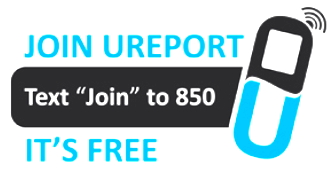
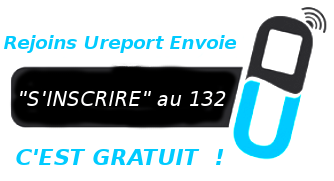
templates

diff --git a/templates/ureport/about.html b/templates/ureport/about.html
@@ -30,27 +30,79 @@
 		</p>
 		
 		<p>
-			Ureport fournit un moyen economique de rassembler et visualiser des informations sur et les opinions de la communaute en temps reel.Co-developpe avec un eventail de groupes d'utilisateurs,cet outil polyvalent contient une serie de caracteristiques et applications qui assurent la valeur pour tous les groupes d'utilisateurs.
+			<h3> Pourquoi rejoindre? Comme un Ureporter tu peux:</h3>
+			<ul>
+				<li>Collecter et partager des informations importantes à propos de ce qui se passe 
+				    dans ta communauté avec les autres à travers le pays</li>
+				<li>Proposer des solutions aux defis que tu vois et motiver nos responsables à  l'action.</li>
+				<li>Contribuer aux emissions radio et articles de journaux sur les sujets qui te tiennent à  cœur.</li>
+				<li>Participer dans les événements Ureport et rencontrer les autres communautés de volontaires 
+				    travaillant pour pour un changement positif dans leurs communautés</li>
+			</ul>
+       En collectant et en partageant l'information de ta communauté tu aides à améliorer la livraison 
+       des services et ressources sociaux à ceux qui en ont le plus besoin
 		</p>
 		<p>
-			Le second paragraphe.
 		</p>
 		
-		<img src="{{ STATIC_URL }}images/Bu.png">
+		<img src="{{ STATIC_URL }}images/Bur.png">
 
 	</div>
 	
+	<div>
 	
+		<h3>La mission</h3> 
+	Mission d'un Ureporter:
+	<ul>
+	<li>Inspirer un changement positif au sein de ta communauté.</li> 
+	<li>Partager l'information sur ce qui se passe dans ta communauté 
+	et plaider pour des services sociaux améliorés..</li>
+	<li>Motiver les responsables a agir sur des sujets sociaux importants</li> 
+    <li>Partager avec d’autres les informations collectées à travers les sondages Ureport, les émissions radio, les dialogues/réunions communautaires et les événements publics.</li> 
+	 <li>Encourager les autres  à aussi devenir Ureporter!</li>  
+    </ul>
+	
+	</div>
+
+
+
+	<div>
+	<h3>Domaine privé</h3>
+	<p>
+		Toutes les informations collectées durant l'enregistrement sont 
+		nécessaires et conçues pour mieux localiser et partager les réponses des 
+		Ureporters à travers le pays, mais ce que tu partages dépend de toi et tu
+		n'es pas obligé de donner ton nom. 
+		 
+        L'information de ton profil et ton numéro de téléphone ne seront jamais 
+        partagés publiquement sans ta permission. Si jamais nous souhaitons 
+        publier ta réponse comme une partie d’activités Ureport, nous serons sûr 
+        d'avoir d'abord ta permission.
+        
+        Tu choisis à quelles questions tu veux répondre.
+        
+        Tu peux arrêter de recevoir les messages Ureport n'importe quand en 
+        écrivant “.............” au ….........
+        
+        Rappel Toi : Ureport se veut comme un outil pour aider les volontaires 
+        communautaire et les jeunes à travers le pays à communiquer entre eux et 
+        les décideurs sur des sujets sociaux importants. Ce système ne peut en 
+        aucune façon être utilisé pour inciter la discrimination contre les autres 
+        basée sur le genre, la religion, l'ethnie, ou l'appartenance politique.
+	</p>
+	</div>
+
+
+
 
 	
 	<div class="p1">
-	
-			<img src="{{ STATIC_URL }}images/p1.png">
-			
-			
-			<p>
-			Le troisieme paragraphe.	
-	        </p>
+	        <div>
+				<a href="/media/" ><img src="{{ STATIC_URL }}images/ressource.png"></a>
+				<a href="/media/" ><img src="{{ STATIC_URL }}images/evenement.png"></a>
+				<a href="/media/" ><img src="{{ STATIC_URL }}images/media.png"></a>
+			</div>
+
 	        
 	        <img src="{{ STATIC_URL }}images/p2.png">
 	        
@@ -58,11 +110,8 @@
 
 	</div>
 	
-	
-	
-	
-		
-		
+
+
 	
 	
 

diff --git a/templates/ureport/home.html b/templates/ureport/home.html
@@ -23,15 +23,19 @@
 	      <div class="map">
 		  
 		  
-	          <img src="{{ STATIC_URL }}images/Bu.png"> 
-	          
-	          
-	    
-	          
-	            
-	
+	          <img src="{{ STATIC_URL }}images/Burundi.png"> 
+
 	
 	      </div>
+	      
+	      <p>
+	      
+	      
+	      
+	      
+	      
+	      </p>
+	      
 			<div class="sondages_header">
 			 	Sondages Top
 			</div>
@@ -48,16 +52,39 @@
 					forage ou de la communaute,est-il travailler aujourd'hui?
 					OUI ou Non et inclure le non </br>du Village
 			</div>
-			<div class="sondages_sep">&nbsp;</div>
 			
 		</div>
 		<div class="past_results">
 			<a href=""> Pour afficher plus de résultats, cliquez ici</a></p>
 		</div>
 	    <div id="footer">
-	    	<div class="sponsors_header" >
-	    		Partenaires		 
+	    	<div><div class="sponsors_header" >
+	    		Partenaires	
+	    		 
+			 
+			    	</div>
+
+
+Le partenariat avec des organisations ayant un large réseau de volontaires nationaux est la force motrice derrière Ureport Burundi.
+Durant les 6 derniers mois, l’équipe Ureport a travaillée en étroite collaboration avec les volontaires de la Croix Rouge, des Scouts et des 
+Guides de partout dans le pays pour identifier des options/caractéristiques de la plate-forme et des sujets clés pour des sondages. 
+Maintenant prêt pour lancer la phase pilote de Ureport Burundi…	
 	    	</div>
+	    	<p>
+	    	
+	    	
+	    	
+	    	
+	    	</p>
+	    	<div><div class="sponsors_header" >
+	    		campagne publique:
+	    		</div>
+	    		
+	    		Par un partage régulier de l'information sur des sujets sociaux importants, les Ureporters du Burundi ont démontré leur désir pour un changement positif; 
+	    		l'UNICEF et ses Partenaires sont à l’écoute et suivent attentivement. Les plates-formes de médias traditionnelles (la radio, les journaux et la télévision) joueront un rôle important en partageant  leurs idées et opinions à travers le pays, en commençant le jour du lancement public de la plate-forme Ureport en..... 	
+	    		 
+			 </div>
+			    	
 	      <div class="sponsors_logos">
 	           <img src="{{ STATIC_URL }}ureport/images/unicef_logo.png" alt="unicef logo" />
 	           <img src="{{ STATIC_URL }}ureport/images/gem_logo.png" alt="gem logo" />
@@ -88,7 +115,6 @@
 				forage ou de la communaute,est-il travailler </br>aujourd'hui?
 				OUI ou Non et inclure le non du Village <a href="">plus...</a>
 			</div>
-			<div class="activities_sep">&nbsp;</div>
 			
 		</div>
 	  </div>  

diff --git a/templates/ureport_layout.html b/templates/ureport_layout.html
@@ -49,11 +49,11 @@
           	</div>
           	<div class="nav">
 		          <ul class="nav nav-pills">
-		          	<li class="active"><a href="/"><br />HOME</a></li>
-		  			<li class="active"><a href="/#poll_results/">POLL <br /> RESULTS </a></li>
-		  			<li class="active"><a href="/about_ureport/">ABOUT <br /> UREPORT</a></li>
-		  			<li class="active"><a href="/join/">HOW <br />TO JOIN</a></li>
-		  			<li class="active"><a href="/media/"><br />MEDIA</a></li>
+		          	<li class="active"><a href="/"><br />ACCUEIL</a></li>
+		  			<li class="active"><a href="/#poll_results/">RESULTATS<br />DES SONDAGES</a></li>
+		  			<li class="active"><a href="/about_ureport/">A PROPOS DE<br />UREPORT</a></li>
+		  			<li class="active"><a href="/join/">REJOINDRE<br/>UREPORT</a></li>
+		  			<li class="active"><a href="/media/"><br /> MEDIA </a></li>
 				  </ul> 
 		  	</div>
 	        <div class="ureporters_info">
@@ -67,9 +67,9 @@
         <div class="sidebar">
             {% block sidecontent %}
             <div class="intro">
-               Ureport est un logiciel gratuit basé sur des SMS qui permet aux jeunes Burundais à d’échanger sur ce qui se passe
-               dans les communautés à travers tout le pays, et de collaborer avec d'autres leaders de la communauté pour un changement positif. </p>
-            </div>
+               Ureport est une plate-forme de SMS gratuits qui permet aux citoyens 
+               de partager des informations et des opinions de leurs communautés et 
+               de travailler ensemble pour amener un changement positif </div>
             <div class="join">
                 <a href="/signup"> <img src="{{ STATIC_URL }}ureport/images/join_us_1.png" width="100%" /></a>
             </div>
@@ -95,10 +95,10 @@
             
             <div id="say">
             	<div class="say_header">
-            		Ton point de vue?<br />
+            		Sois impliqué <br />
             		<span>
-            			Ou est ce que les femmes de votre communauté vont avoir leurs consultations prénatales?
-            		</span>
+            			As-tu une bonne idée pour partager les informations de Ureport  avec les autres dans ta communauté? Peux-tu penser à une meilleure façon d'enregistrer les utilisateurs ou de partager les réponses des sondages?
+            			 Si oui, nous voulons t'entendre! Envoie-nous un email à ureportburundi@gmail.com et nous discuterons.</span>
             	</div>
             	<div class="separator">
             		&nbsp;

diff --git a/templates/ureport/how_to_join.html b/templates/ureport/how_to_join.html
@@ -14,14 +14,14 @@
 {% block content %}
 
 <div class="how_to_join">
-	
-	
-	<h3 class="about_header">How To Report <img class="ab_img" src="{{ STATIC_URL }}images/shout_out.png"/></h3>
+
+   
+	<h2 class="about_header">Comment s’inscrire <img class="ab_img" src="{{ STATIC_URL }}images/shout_out.png"/></h2>
  
 	<div class="step_2 step">
 		<p class="step_txt"><span class="step_name">
 		Step 2 </span>
-		Des questions de sondage hebdomadaire sont envoyees aux Ureporters enregistres via leur telephone portable.
+		Tu recevras un message de salutation et une série de questions envoyées sur ton téléphone portable qui nous aideront à mieux analyser et localiser l'information que nous recevons. Ureport veut connaître ta commune, mais toutes les autres questions sont optionnelles
 
 		
 		</p>
@@ -32,8 +32,7 @@
 
     <div class="step_1 step">
 		<p class="step_txt"><span class="step_name" >Step 1 </span>
-		Un volontaire communautaire envoie par texto"REJOINDRE" au 132 et repond a une serie de questions pour devenir un Ureporter enregistre.
-		
+		 Écris le mot “S’inscrire” au 132. Tous les SMS de Ureport sont gratuits !
 
 		</p>
 		<img src="{{ STATIC_URL }}images/step1.png">

diff --git a/staticfiles/ureport/stylesheets/ureport_home.css b/staticfiles/ureport/stylesheets/ureport_home.css
@@ -624,7 +624,7 @@ div.poll-responses span.participants {
 		background: #00AFEE;
 		color:#4B494C;
 		font-weight: bold;
-		height: 200px;
+		height: 250px;
 		-moz-border-radius:15px;
   		-webkit-border-radius:15px;
   		border-radius:15px;
@@ -697,7 +697,7 @@ div#sondages {
 
 #sondages div.news_column {
     float: left;
-    width: 30%;
+    width: 48%;
     margin: 5px;
     height:150px;   
 }
@@ -762,7 +762,7 @@ div#activities {
 
 #activities div.activities_column {
     float: left;
-    width: 30%;
+    width: 48%;
     margin: 5px;
     height:150px;   
 }

diff --git a/staticfiles/ureport/stylesheets/ureport_custom.css b/staticfiles/ureport/stylesheets/ureport_custom.css
@@ -1,3 +1,43 @@
 .step_1 {
-	position : left;
+	float:  left;
+	width: 300px;
+	height:350px;
 }
+.step_3 {
+	float:  left;
+	width: 300px;
+	height:350px;
+}
+.step_2 {
+	float: right;
+	width: 300px;
+	height:350px;
+}
+.step_4 {
+	float: right;
+	width: 300px;
+	height:350px;
+}
+div.footerlinks{
+	margin-top: 160px;
+}
+.m{
+margin-top: 30px;
+margin-left: 100px;
+margin-bottom: 50px;
+
+}
+
+.p1{
+	margin-top: 180px;
+	margin-bottom: 10px;
+	
+}
+.p2{
+margin-top: 10px;
+
+}
+.map{
+margin-left: 100px;
+}
+

diff --git a/ureport_project/urls.py b/ureport_project/urls.py
@@ -44,6 +44,7 @@ urlpatterns = patterns('',
 #     url(r'^router/receive/$', CustomHttpBackendView.as_view(backend_name='kan2http')),
     url(r'^$', direct_to_template, {'template':'ureport/home.html'}, name="new_home"),
     url(r'^join/$', direct_to_template, {'template':'ureport/how_to_join.html'}),
+    url(r'^media/$', direct_to_template, {'template':'ureport/media.html'}),
     url(r'^about_ureport/$', direct_to_template, {'template':'ureport/about.html'}),
     url(r'^ureport-admin/$', 'ureport.views.ureport_content', {'slug':'ureport_home', 'base_template':'ureport/three-square.html', 'num_columns':3}, name='rapidsms-dashboard'),
 #    url('^accounts/login', 'rapidsms.views.login'),
